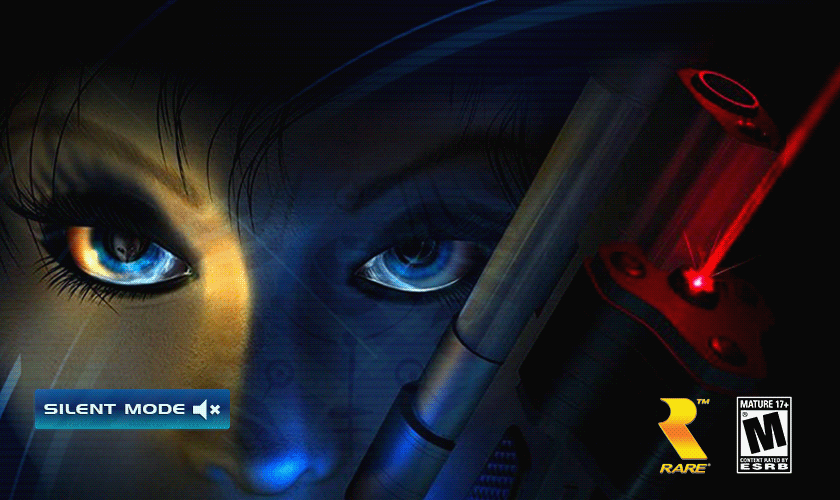
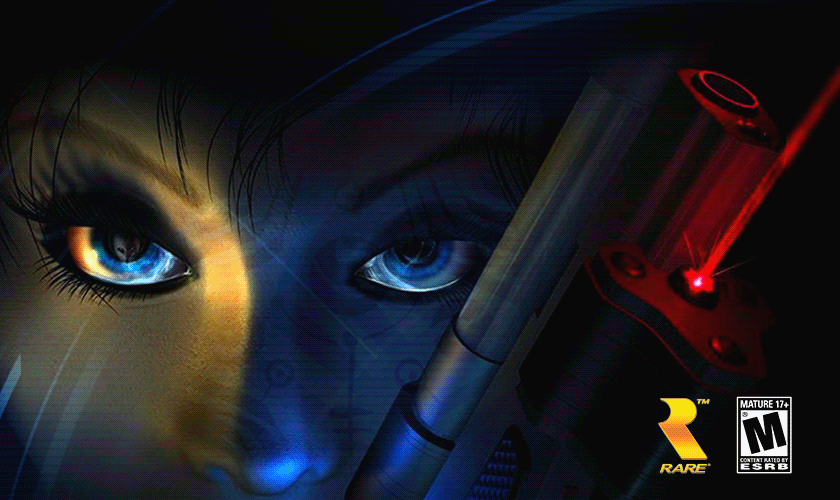
Add multiregion support and remove silent mode.

diff --git a/port/src/main.c b/port/src/main.c
@@ -152,12 +152,24 @@ int main(int argc, const char **argv) {
 #endif
 #ifdef __vita__
 	SceIoStat st;
-	if (sceIoGetstat("ux0:data/pd/pd.ntsc-final.z64", &st) < 0) {
-		vita_fatal_error("FATAL ERROR: ux0:data/pd/pd.ntsc-final.z64 not found!");
-	} else if (sceIoGetstat("ur0:/data/libshacccg.suprx", &st) < 0 && sceIoGetstat("ur0:/data/external/libshacccg.suprx", &st) < 0) {
+	if (sceIoGetstat("ur0:/data/libshacccg.suprx", &st) < 0 && sceIoGetstat("ur0:/data/external/libshacccg.suprx", &st) < 0) {
 		vita_fatal_error("FATAL ERROR: Runtime shader compiler (libshacccg.suprx) not installed!");
 	}
-	
+
+#if VERSION == VERSION_NTSC_FINAL
+	if (sceIoGetstat("ux0:data/pd/pd.ntsc-final.z64", &st) < 0) {
+		if (sceIoGetstat("ux0:data/pd/pd.pal-final.z64", &st) < 0) {
+			if (sceIoGetstat("ux0:data/pd/pd.jpn-final.z64", &st) < 0) {
+				vita_fatal_error("FATAL ERROR: No compatible rom detected!");
+			} else {
+				sceAppMgrLoadExec("app0:jap.self", NULL, NULL);
+			}
+		} else {
+			sceAppMgrLoadExec("app0:pal.self", NULL, NULL);
+		}
+	}
+#endif
+
 	if (sceIoGetstat("ux0:data/pd/pd.ini", &st) < 0) {
 		FILE *f = fopen("app0:pd.ini", "rb");
 		fseek(f, 0, SEEK_END);
@@ -171,23 +183,12 @@ int main(int argc, const char **argv) {
 		fclose(f);
 		free(buf);
 	}
-
-	sceAppUtilInit(&(SceAppUtilInitParam){}, &(SceAppUtilBootParam){});
-	SceAppUtilAppEventParam eventParam;
-	sceClibMemset(&eventParam, 0, sizeof(SceAppUtilAppEventParam));
-	sceAppUtilReceiveAppEvent(&eventParam);
-	if (eventParam.type == 0x05) {
-		char buffer[2048];
-		sceAppUtilAppEventParseLiveArea(&eventParam, buffer);
-		if (strstr(buffer, "no_audio"))
-			strcpy(audio_arg, "--no-sound");
-	}
 	
 	scePowerSetArmClockFrequency(444);
 	scePowerSetBusClockFrequency(222);
 	scePowerSetGpuClockFrequency(222);
 	scePowerSetGpuXbarClockFrequency(166);
-	const char *vita_args[9] = {
+	const char *vita_args[8] = {
 		"ux0:data/pd",
 		"--basedir",
 		"ux0:data/pd",
@@ -195,10 +196,9 @@ int main(int argc, const char **argv) {
 		"ux0:data/pd",
 		"--savedir",
 		"",
-		audio_arg,
 		0
 	};
-	sysInitArgs(8, vita_args);
+	sysInitArgs(7, vita_args);
 #else	
 	sysInitArgs(argc, argv);
 #endif

diff --git a/README.md b/README.md
@@ -198,12 +198,9 @@ Controls can be rebound in `pd.ini`. Default control scheme is as follows:
    `make HAVE_GLSL_SUPPORT=1 CIRCULAR_VERTEX_POOL=2 USE_SCRATCH_MEMORY=1 NO_DEBUG=1 DRAW_SPEEDHACK=1 install`
 3. Get the source code:  
    `git clone --recursive https://github.com/fgsfdsfgs/perfect_dark.git && cd perfect_dark`
-4. Configure:
-   * Execute command: `cmake -G "Unix Makefiles" -DVITA=1 -Bbuild .`
-   * Add ` -DROMID=pal-final` or ` -DROMID=jpn-final` at the end of the command if you want to build a PAL or JPN executable respectively.
 7. Build:
-   * Execute command: `make -C build -j4`
-8. The resulting executable will be at `build/pd.armv7.vpk`.
+   * Execute the script: `build_vita.bat`
+8. The resulting executable will be at `vita_release/vpk/pd.armv7.vpk`.
 
 ### Notes
 
